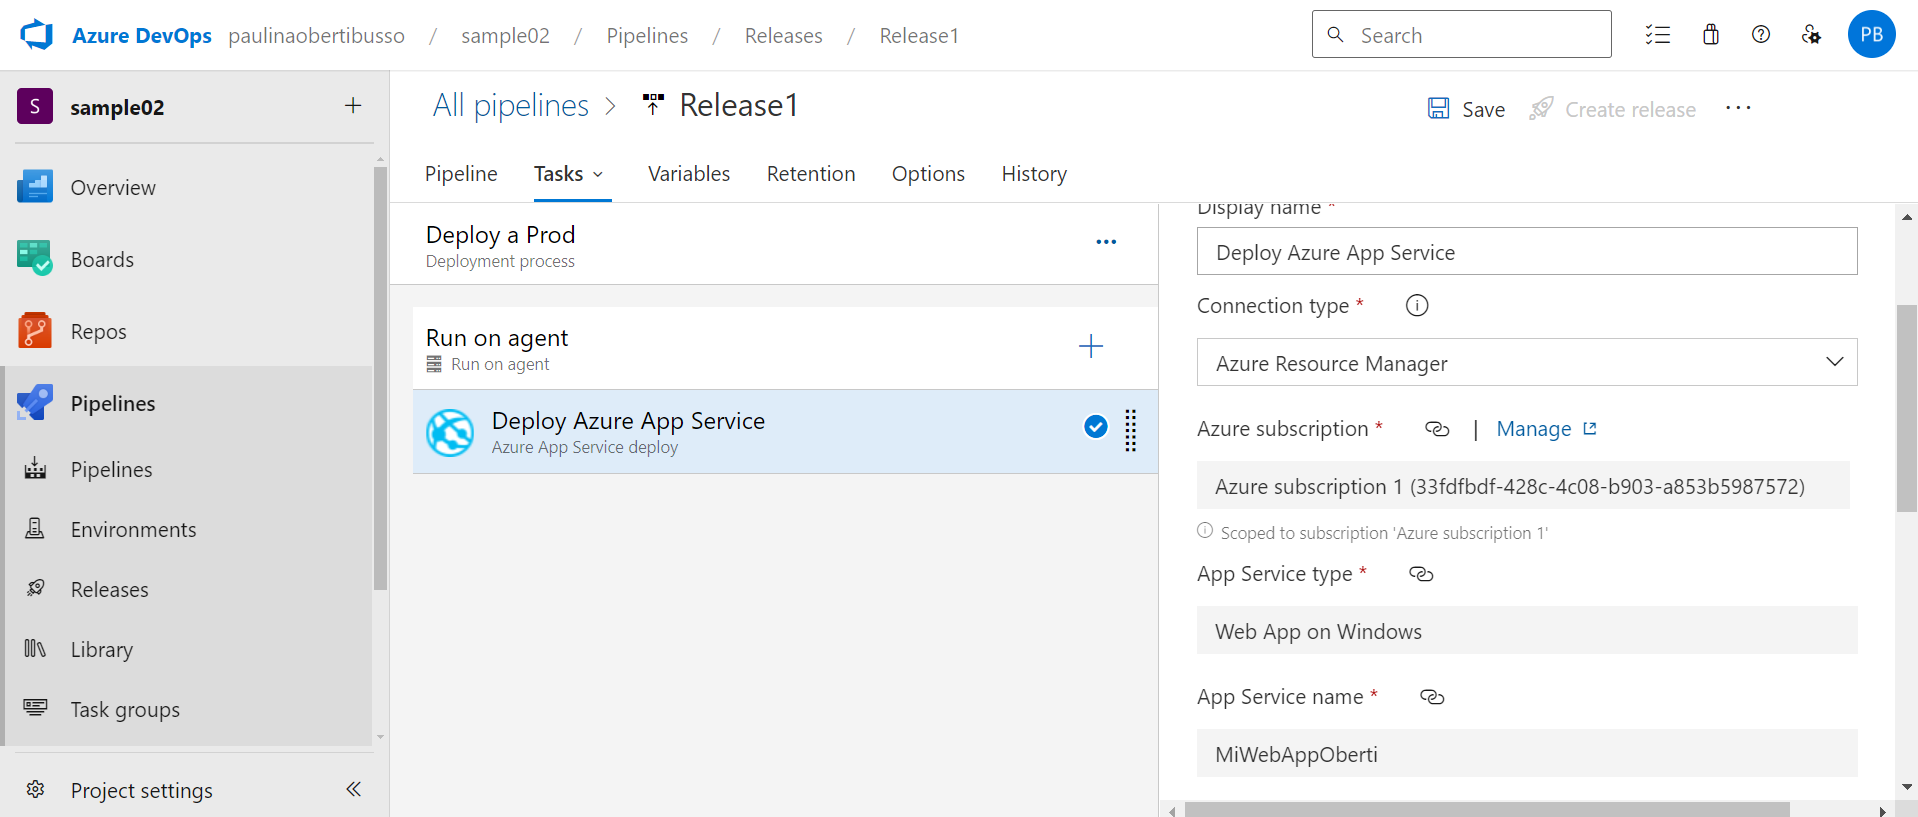
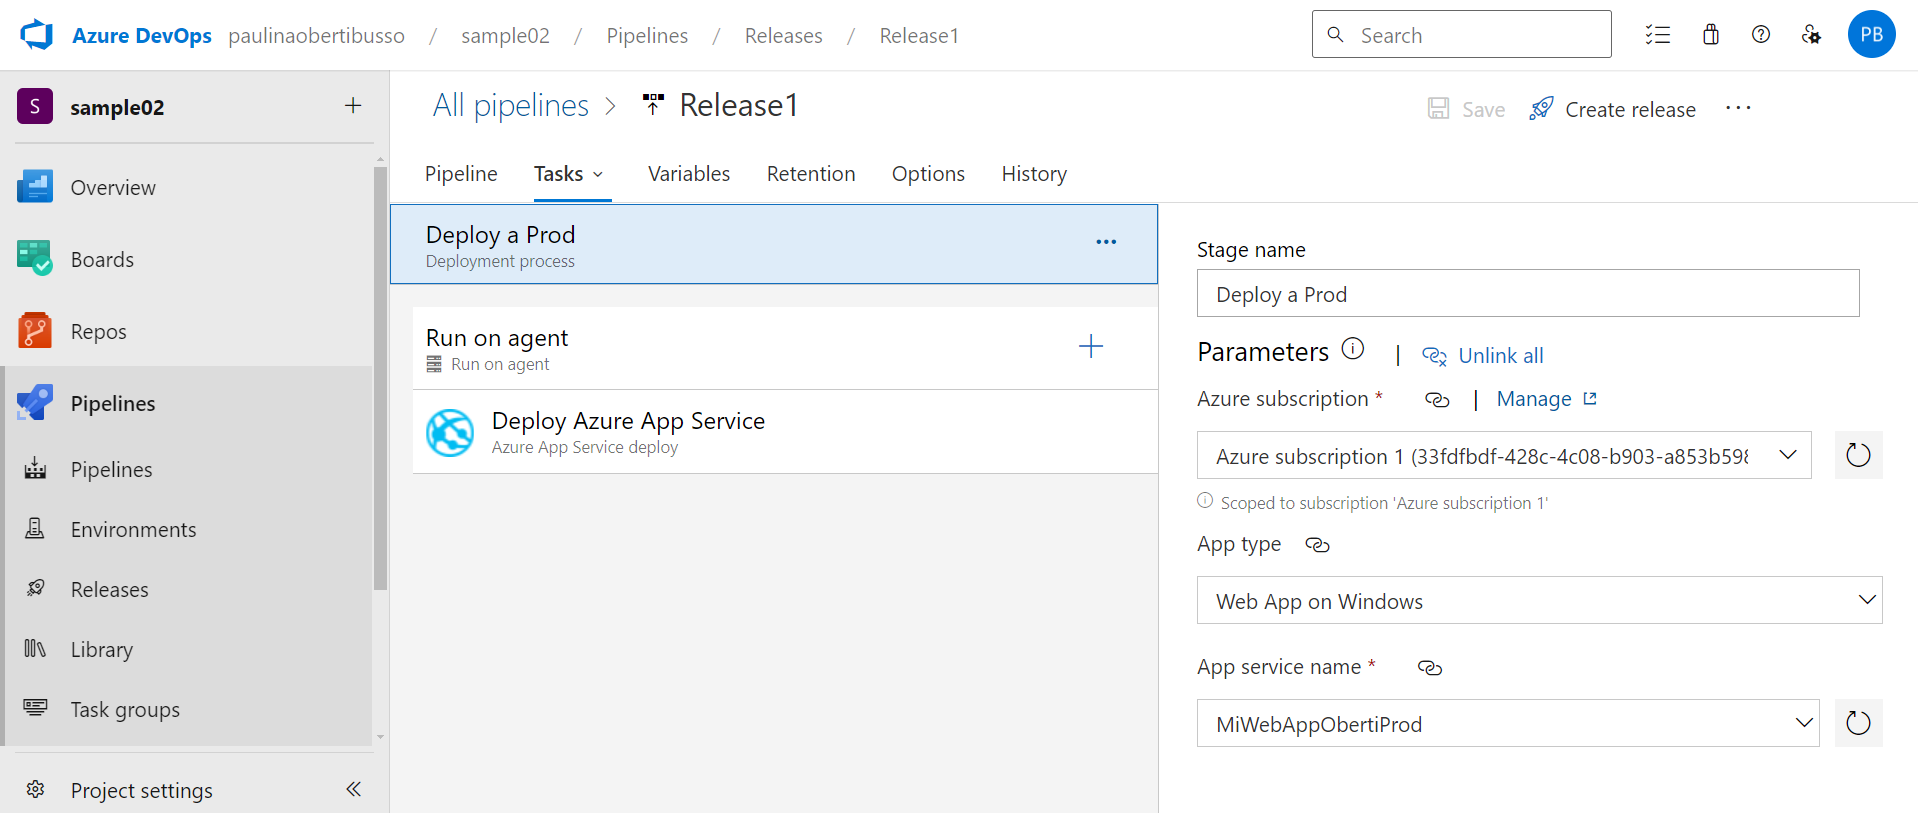
Fin TP5

diff --git a/TP5/Trabajo Practico 5.md b/TP5/Trabajo Practico 5.md
@@ -50,15 +50,29 @@
 ![](imagenes/34.png)
 
 5.9.  Realizar un cambio al código del controlador para que devuelva 10 pronósticos, realizar commit, evaluar ejecución de pipelines de build y release, navegar a la url de la webapp/weatherforecast y corroborar cambio, verificar que en la url de la webapp_prod/weatherforecast se muestra lo mismo.
+![](imagenes/35.png)
+![](imagenes/36.png)
+![](imagenes/37.png)
+![](imagenes/38.png)
+![](imagenes/39.png)
 
 5.10. Modificar pipeline de release para colocar una aprobación manual para el paso a Producción.
+![](imagenes/40.png)
 
 5.11. Realizar un cambio al código del controlador para que devuelva 5 pronósticos, realizar commit, evaluar ejecución de pipelines de build y release, navegar a la url de la webapp/weatherforecast y corroborar cambio, verificar que en la url de la webapp_prod/weatherforecast aun se muestra la versión anterior.
+![](imagenes/41.png)
+![](imagenes/42.png)
+![](imagenes/43.png)
 
 5.12. Aprobar el pase ya sea desde el release o desde el mail recibido. 
-
-5.12.1. Notar que se puede dar la aprobación pero posponer su aplicación hasta una determinada fecha
+![](imagenes/44.png)
+![](imagenes/45.png)
 
 5.13. Esperar a la finalización de la etapa de Pase a Prod y luego corroborar que en la url de la webapp_prod/weatherforecast se muestra la nueva versión coinicidente con la de QA.
+![](imagenes/46.png)
 
 5.14. Realizar un pipeline (no release) que incluya el deploy a QA y a PROD con una aprobación manual. El pipeline debe estar construido en YAML sin utilizar el editor clásico de pipelines ni el editor clásico de pipelines de release.
+![](imagenes/47.png)
+![](imagenes/48.png)
+![](imagenes/49.png)
+![](imagenes/50.png)
